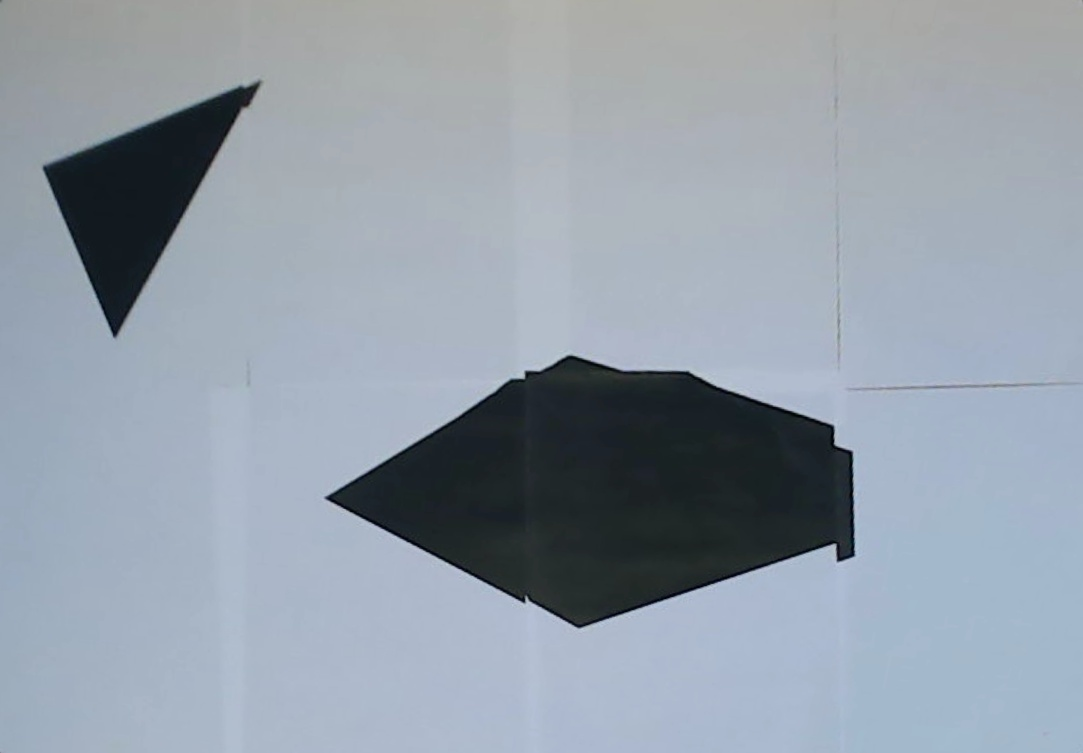
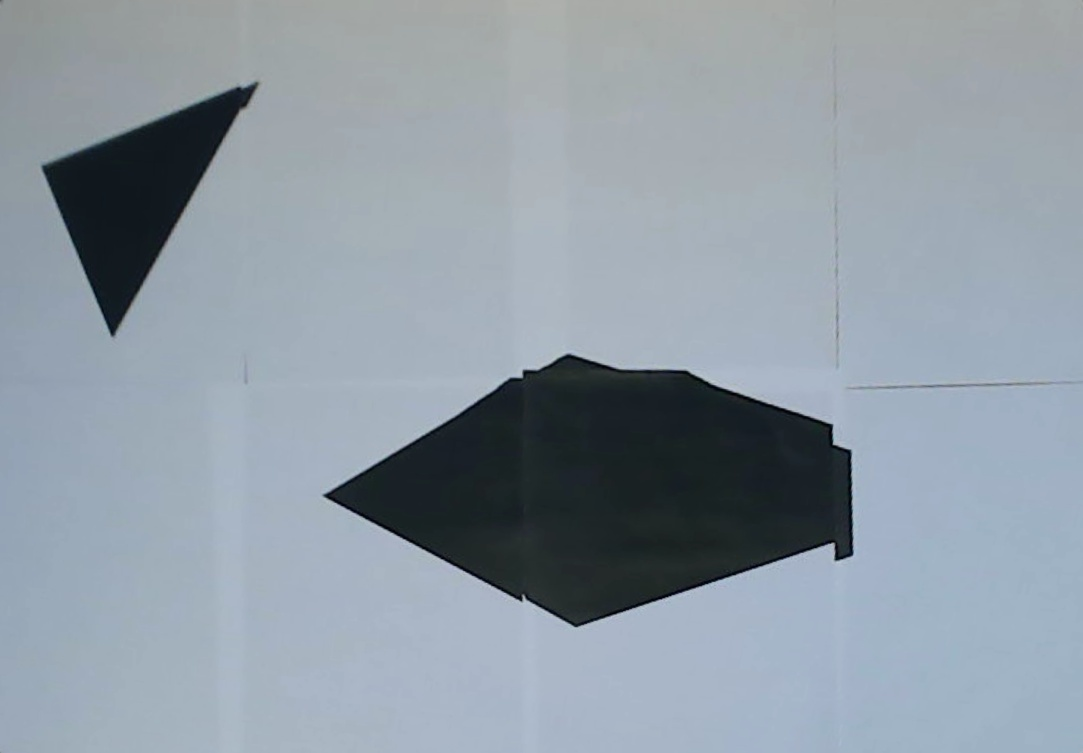
kidnapping OK ?

diff --git a/src/main.py b/src/main.py
@@ -76,18 +76,22 @@ async def main():
 
             # is there a kidnapping?
             if motion_control.is_kidnapped(pos_estim, thymio):
-                 print("Kidnapping detected! Stopping the robot.")
-                 await motion_control.stop()
-                 print("Please place the robot back on the map and press 'r' to resume.")
-                 while True:
-                     key = carte.afficher_video()
-                     if key == ord('r'):
-                         break
-                 # Reinitialize position
-                 pos_estim = carte.get_thymio_position() # pos x,y and angle in radians
-                 path = global_nav.find_optimal_path(pos_estim, goal, obstacles)
-                 motion_control.set_path(path)
-            
+                print("Kidnapping detected! Stopping the robot.")
+                await motion_control.stop()
+                print("Please place the robot back on the map and press 'r' to resume.")
+                while True:
+                    key = carte.afficher_video()
+                    if key == ord('r'):
+                        break
+                # Reinitialize position
+                search_pos = True
+                while search_pos:
+                    pos_estim = carte.get_thymio_position() # pos x,y and angle in radians
+                    if pos_estim != []:
+                        search_pos = False
+                path = global_nav.find_optimal_path(pos_estim, goal, obstacles)
+                motion_control.set_path(path)
+
             thymio = pos_estim
             # movment 
             if (await motion_control.see_local_obstacle()): 
